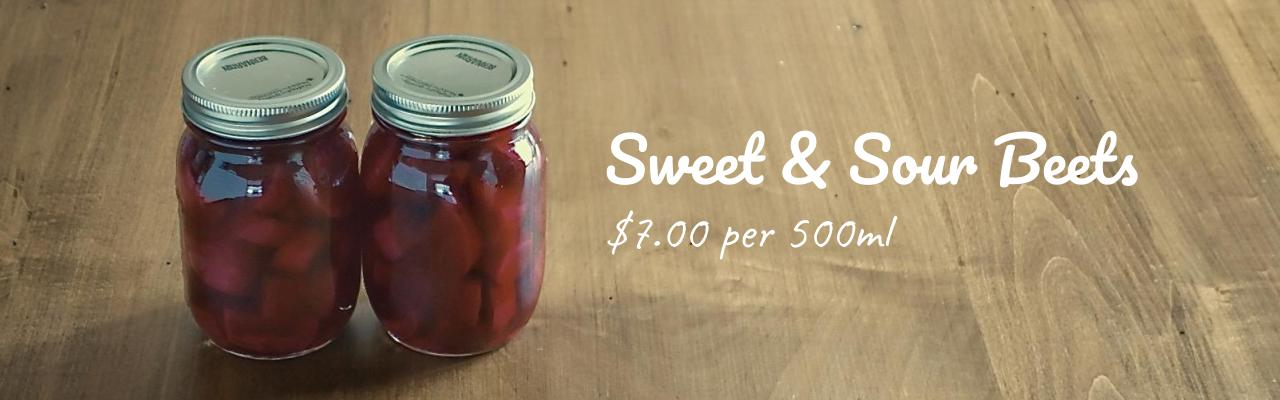
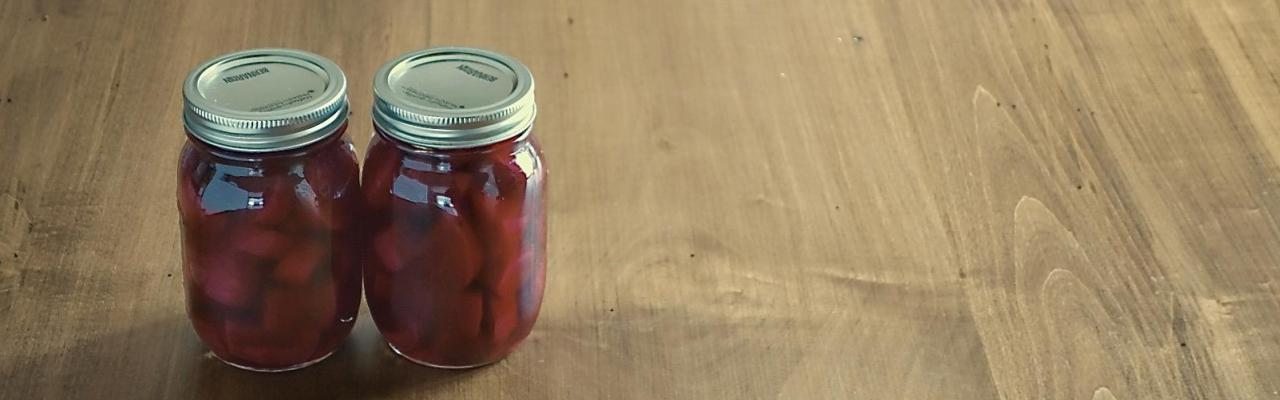
move the produce list to external json files add fonts

diff --git a/index.html b/index.html
@@ -7,6 +7,11 @@
     <link rel="stylesheet" href="toggleButton.css">
     
     <style>
+
+      @font-face { font-family: Raleway; src: url('Raleway-VariableFont_wght.ttf'); }
+      @font-face { font-family: Caveat; src: url('Caveat-Medium.ttf'); }
+      @font-face { font-family: Pacifico; src: url('Pacifico-Regular.ttf'); }
+
       * {
         box-sizing: border-box
       }
@@ -101,6 +106,7 @@
 
       function onBodyLoad() {
         checkTutorial();
+        loadFlyerText();
         loadProduces();
       }
 
@@ -116,6 +122,7 @@
     </script>
 
     <script type="text/javascript" src="produceData.json"></script>
+    <script type="text/javascript" src="flyerData.json"></script>
     <script src="https://ajax.googleapis.com/ajax/libs/jquery/3.5.1/jquery.min.js"></script>
 
   </head>
@@ -129,8 +136,9 @@
       <div style="height: 8vh; padding: 0.5vh;">
         <img src="images/JetyLogo.png" class="center" style="width: auto; height: 8vh;">
       </div>
-      <div style="background-color: #0c343dff; height: 8vh; padding: 0.5vh;">
-        <img src="images/FlyerBanner20220106.jpg" class="center" style="width: 80vw; height: auto;">
+      <div style="background-color: #0c343dff; height: 8vh; padding: 1.4vh;">
+        <p id="flyerBanner1Txt" style="margin: auto; margin-bottom: 0.2vh; text-align:center; font-family: Raleway; font-size: 2vh; color: rgb(223, 223, 223);"></p>
+        <p id="flyerBanner2Txt" style="margin: auto; margin-left: 4vw; margin-right: 4vw; text-align:center; font-family: Raleway; font-size: 1.2vh; color: rgb(223, 223, 223);"></p>
       </div>
     </header>
 
@@ -165,7 +173,7 @@
           <span id="modalClose" class="close">&times;</span>
           <div style="margin-top: 3vh; margin-left: 2vw; margin-right: 2vw;">
             <div style="margin-right: 2vw; width: 8vh;">
-                <img src="images/produces/egg_square.jpg" style="width: auto; height: 8vh; max-width: 8vh;">
+                <img id="modalImage" style="width: auto; height: 8vh; max-width: 8vh;">
             </div>
             <div style="text-align: left;">
               <p style="text-align:left; color: rgb(44, 44, 44); font-size: 5vw;" id="modalTitle"></p> </p>
@@ -180,25 +188,73 @@
         <script>
           var pl = document.getElementById("produceList");
 
-          function createProduce(_id) {
+          function createProduceStatic(_id) {
             var p = document.createElement('img');
             p.id = _id;
             p.addEventListener( "click", function(){ showModal(this.id)} );
             var imgPath = "images/produces/"+_id+".jpg";
             p.src = imgPath;
             pl.appendChild(p);   
-            
+
             // create a line
             var d = document.createElement('div');
             d.setAttribute("style","text-align:center; margin:auto; height:0.2vh; width:80vw; background-color:#0c343d;" );
             pl.appendChild(d);   
           }
 
-          function createDivider(_id) {
+          function createProduce(_id) {
+            var d = document.createElement('div');
+            d.setAttribute("style","text-align:center; position:relative; margin:auto; height:auto; width:80vw;" );
+            d.id = _id;
+            d.addEventListener( "click", function(){ showModal(this.id)} );
+
+            // create image
             var p = document.createElement('img');
             var imgPath = "images/produces/"+_id+".jpg";
             p.src = imgPath;
+            d.appendChild(p);   
+
+            {
+              // create div for text
+              var dt = document.createElement('div');
+              dt.setAttribute("style","position:absolute; top:50%; left:50%; transform: translate(-4%,-50%); margin:auto; height:10vw; width:40vw;" );
+
+              var produce_index=0;
+              $.each(myProducesData, function(i, item) {
+                if( myProducesData[i].id == _id ) {
+                  produce_index = i;
+                }
+              });
+
+              var t1 = document.createElement("P");                 // Create a <p> element
+              t1.setAttribute("style","text-align:left; color: white; font-size: 4vw; font-family: Pacifico; margin:auto; height:auto; line-height: 1.5;" );
+              t1.innerHTML = myProducesData[produce_index].title;   
+              dt.appendChild(t1);
+
+              var t2 = document.createElement("P");                 // Create a <p> element
+              t2.setAttribute("style","margin: auto; text-align:left; color: white; font-size: 3.2vw; font-family: Caveat; margin:auto; height: auto; line-height: 1.0;" );
+              t2.innerHTML = myProducesData[produce_index].pricing; 
+              dt.appendChild(t2);
+            }
+
+            d.appendChild(dt);
+            pl.appendChild(d);   
+
+            // create a line
+            var l = document.createElement('div');
+            l.setAttribute("style","text-align:center; margin:auto; height:3px; width:80vw; background-color:#0c343d;" );
+            pl.appendChild(l);   
+          }
+
+          function createDivider(dividerTitle) {
+            var p = document.createElement('div');
+            p.setAttribute("style","text-align:center; margin:auto; height:7vh; width:80vw; background-color:#274e13; padding-top:1.2vh;" );
+            var t = document.createElement("P");                 // Create a <p> element
+            t.setAttribute("style","text-align:center; color: rgb(223, 223, 223); font-size: 5.1vw; font-family: Pacifico; margin:auto;" );
+            t.innerHTML = dividerTitle;                // Insert text
+            p.appendChild(t); 
             pl.appendChild(p);   
+
             // create a line
             var d = document.createElement('div');
             d.setAttribute("style","text-align:center; margin:auto; height:0.2vh; width:80vw; background-color:#0c343d;" );
@@ -206,12 +262,21 @@
           }
 
           function loadProduces() {
-            createProduce("egg");
-            createDivider("divider_mennonite")
-            createProduce("salsa");
-            createProduce("beets");
-            createProduce("pickles");
-            createProduce("maplesyrup");
+            for( let i = 0; i < myFlyerProduceList.length; i++) {
+              if( myFlyerProduceList[i].type == "divider" ) {
+                createDivider( myFlyerProduceList[i].id);
+              } else {
+                $.each(myProducesData, function(j, item) {
+                  if( myProducesData[j].id == myFlyerProduceList[i].id ) {
+                    if( myProducesData[j].produce_div == "static") {
+                      createProduceStatic( myProducesData[j].id );
+                    } else {
+                      createProduce( myProducesData[j].id );
+                    }
+                  }
+                });
+              }
+            }
           }
 
         </script>
@@ -245,6 +310,8 @@
         function showModal(produceId) {
           $.each(myProducesData, function(i, item) {
             if( myProducesData[i].id == produceId ) {
+              var imgPath = "images/produces/"+myProducesData[i].image;
+              document.getElementById("modalImage").src = imgPath;
               document.getElementById("modalTitle").innerHTML = myProducesData[i].title;
               document.getElementById("modalText").innerHTML = myProducesData[i].description;
             }
@@ -256,18 +323,25 @@
           setCookie( "dontShowTutorial", cb.checked, 30 );
           let dontshow = getCookie("dontShowTutorial");
         }
+
       </script>        
     </div>
    
-
     <div style="background-color: #274e13ff; height: auto; max-height: 12vh; padding: 0.1vh; margin: 0;">
       <div style="margin: auto; text-align: center; width: 90vw; ">
-        <p style="text-align:center; color: rgb(223, 223, 223); font-size: 2vw;">
-          Please place your order through one of the following: Jety Farm WeChat group, WhatsApp group, Signal group, 
-          or direct message. Minimum order is $10. The order cut-off time is Tue, Jan 4 @6pm.
-          Thank you for your support and stay safe!
-        </p>
+        <p id="flyerFootnoteTxt" style="text-align:center; color: rgb(223, 223, 223); font-size: 2vw;"></p>
       </div>
     </div>
+
+    <script>
+        function loadFlyerText() {
+          var t1 = document.getElementById("flyerBanner1Txt");
+          t1.innerHTML = myFlyerData[0].banner1Txt; 
+          var t2 = document.getElementById("flyerBanner2Txt");
+          t2.innerHTML = myFlyerData[0].banner2Txt;
+          var t3 = document.getElementById("flyerFootnoteTxt");
+          t3.innerHTML = myFlyerData[0].footnoteTxt;
+        }
+    </script>
   </body>
 </html>
